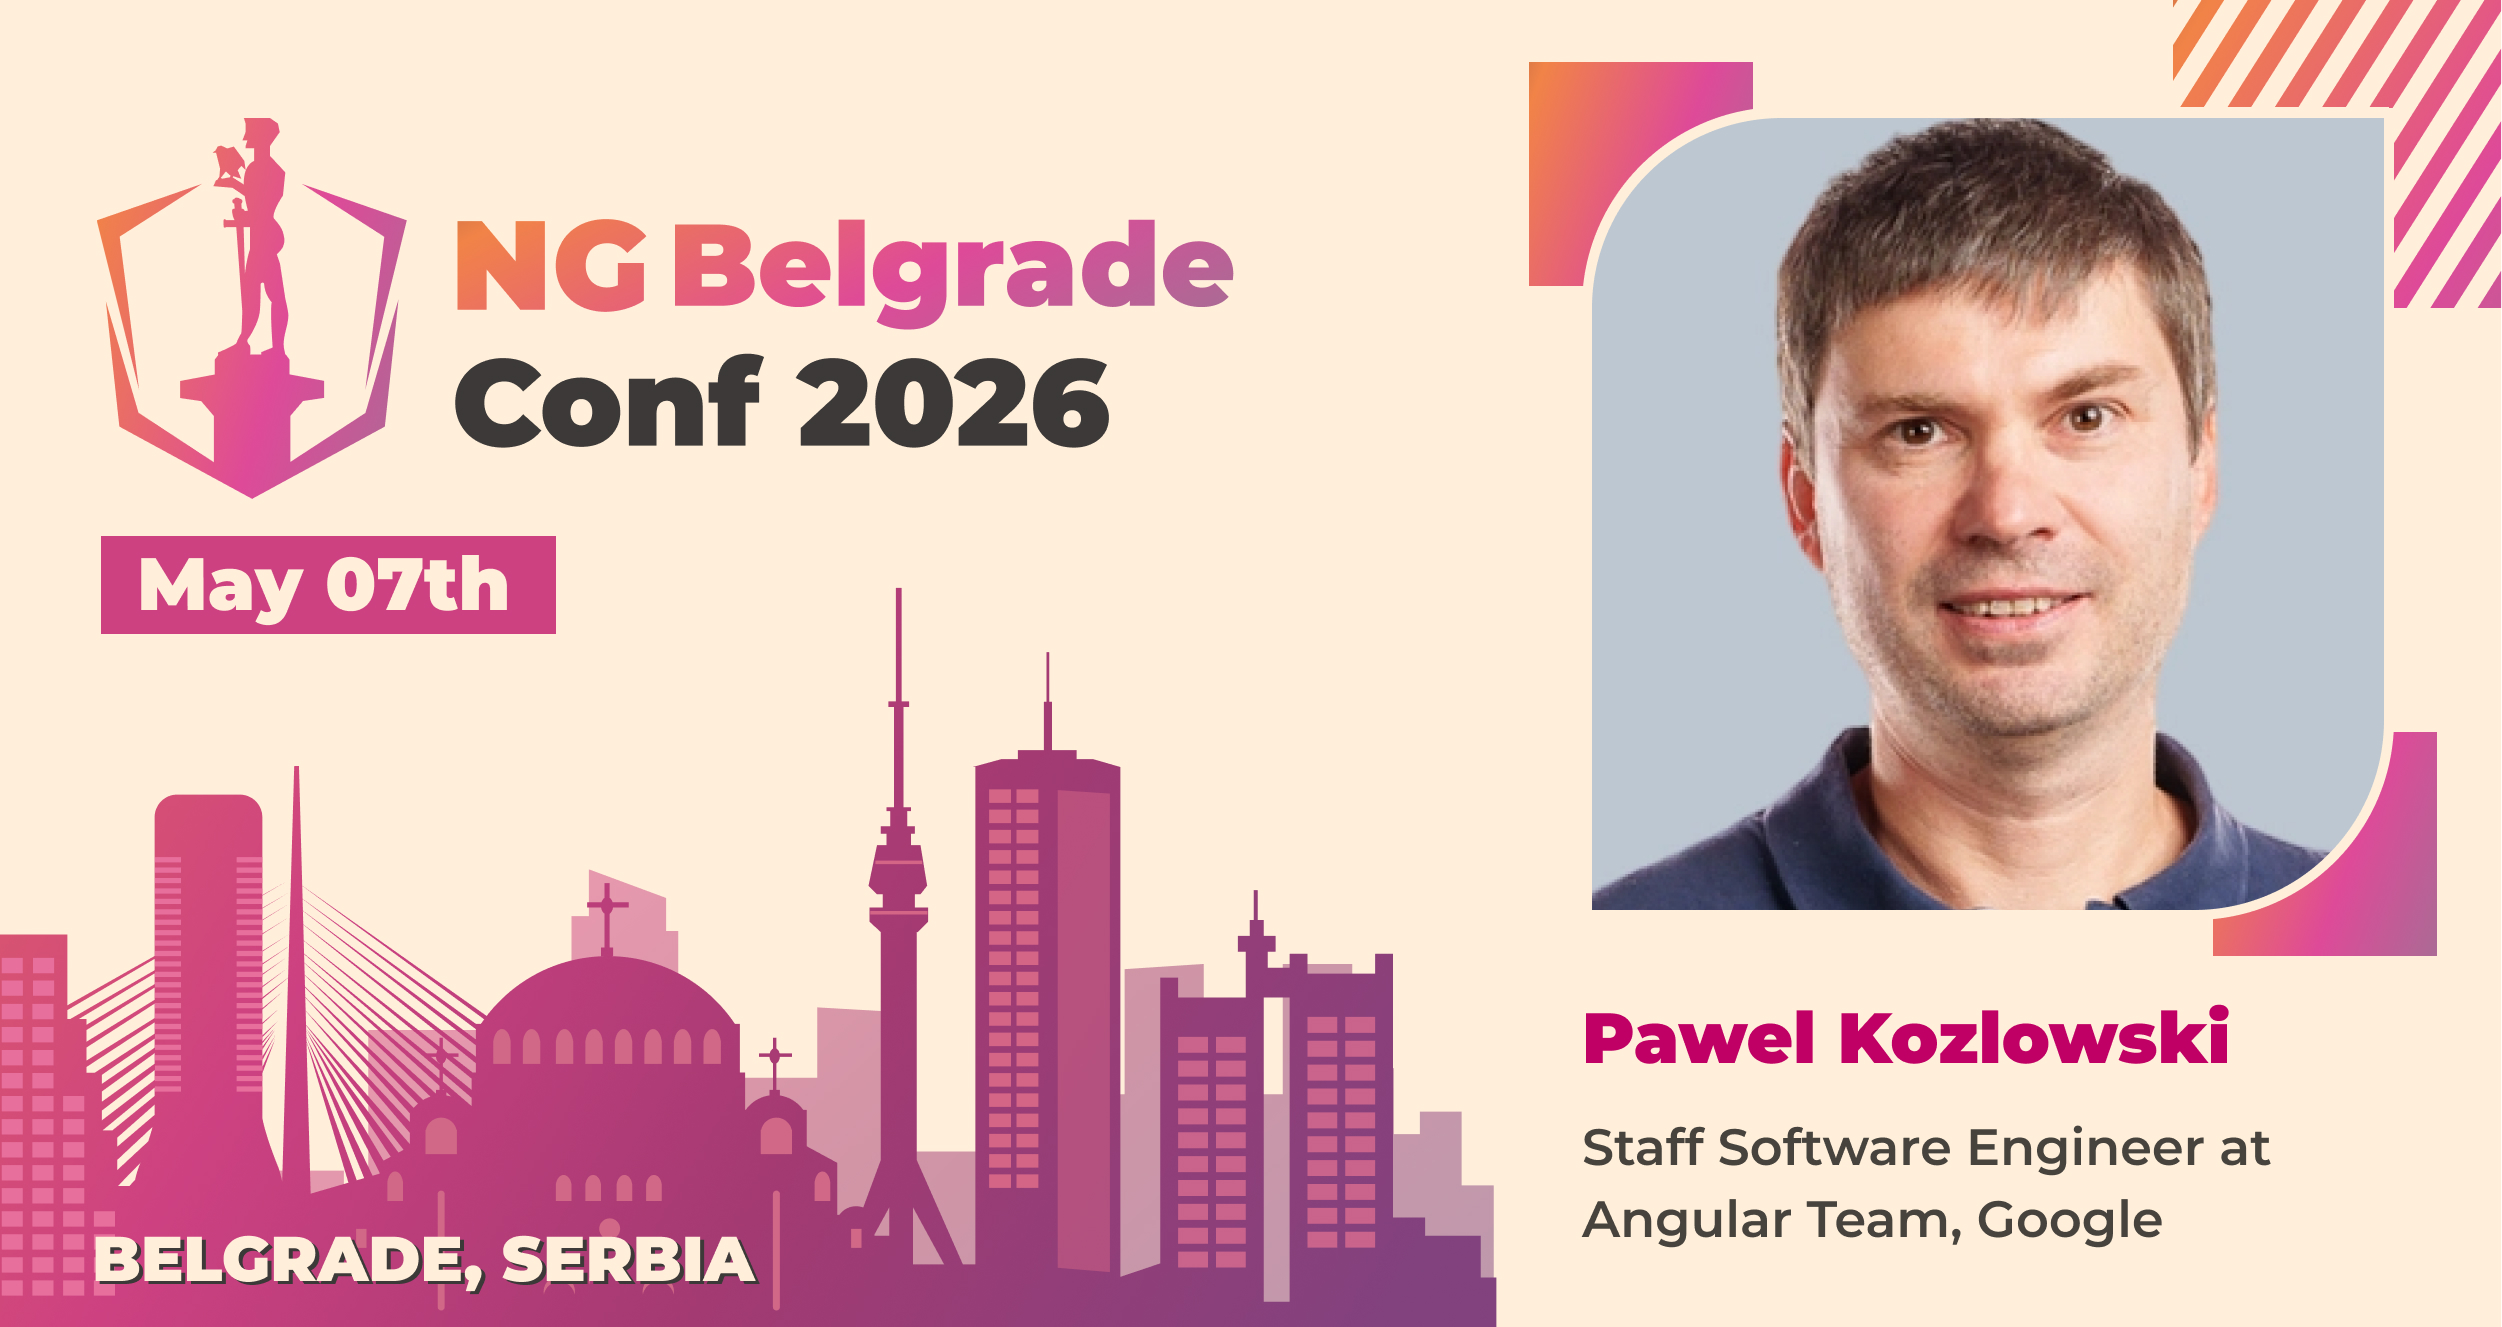
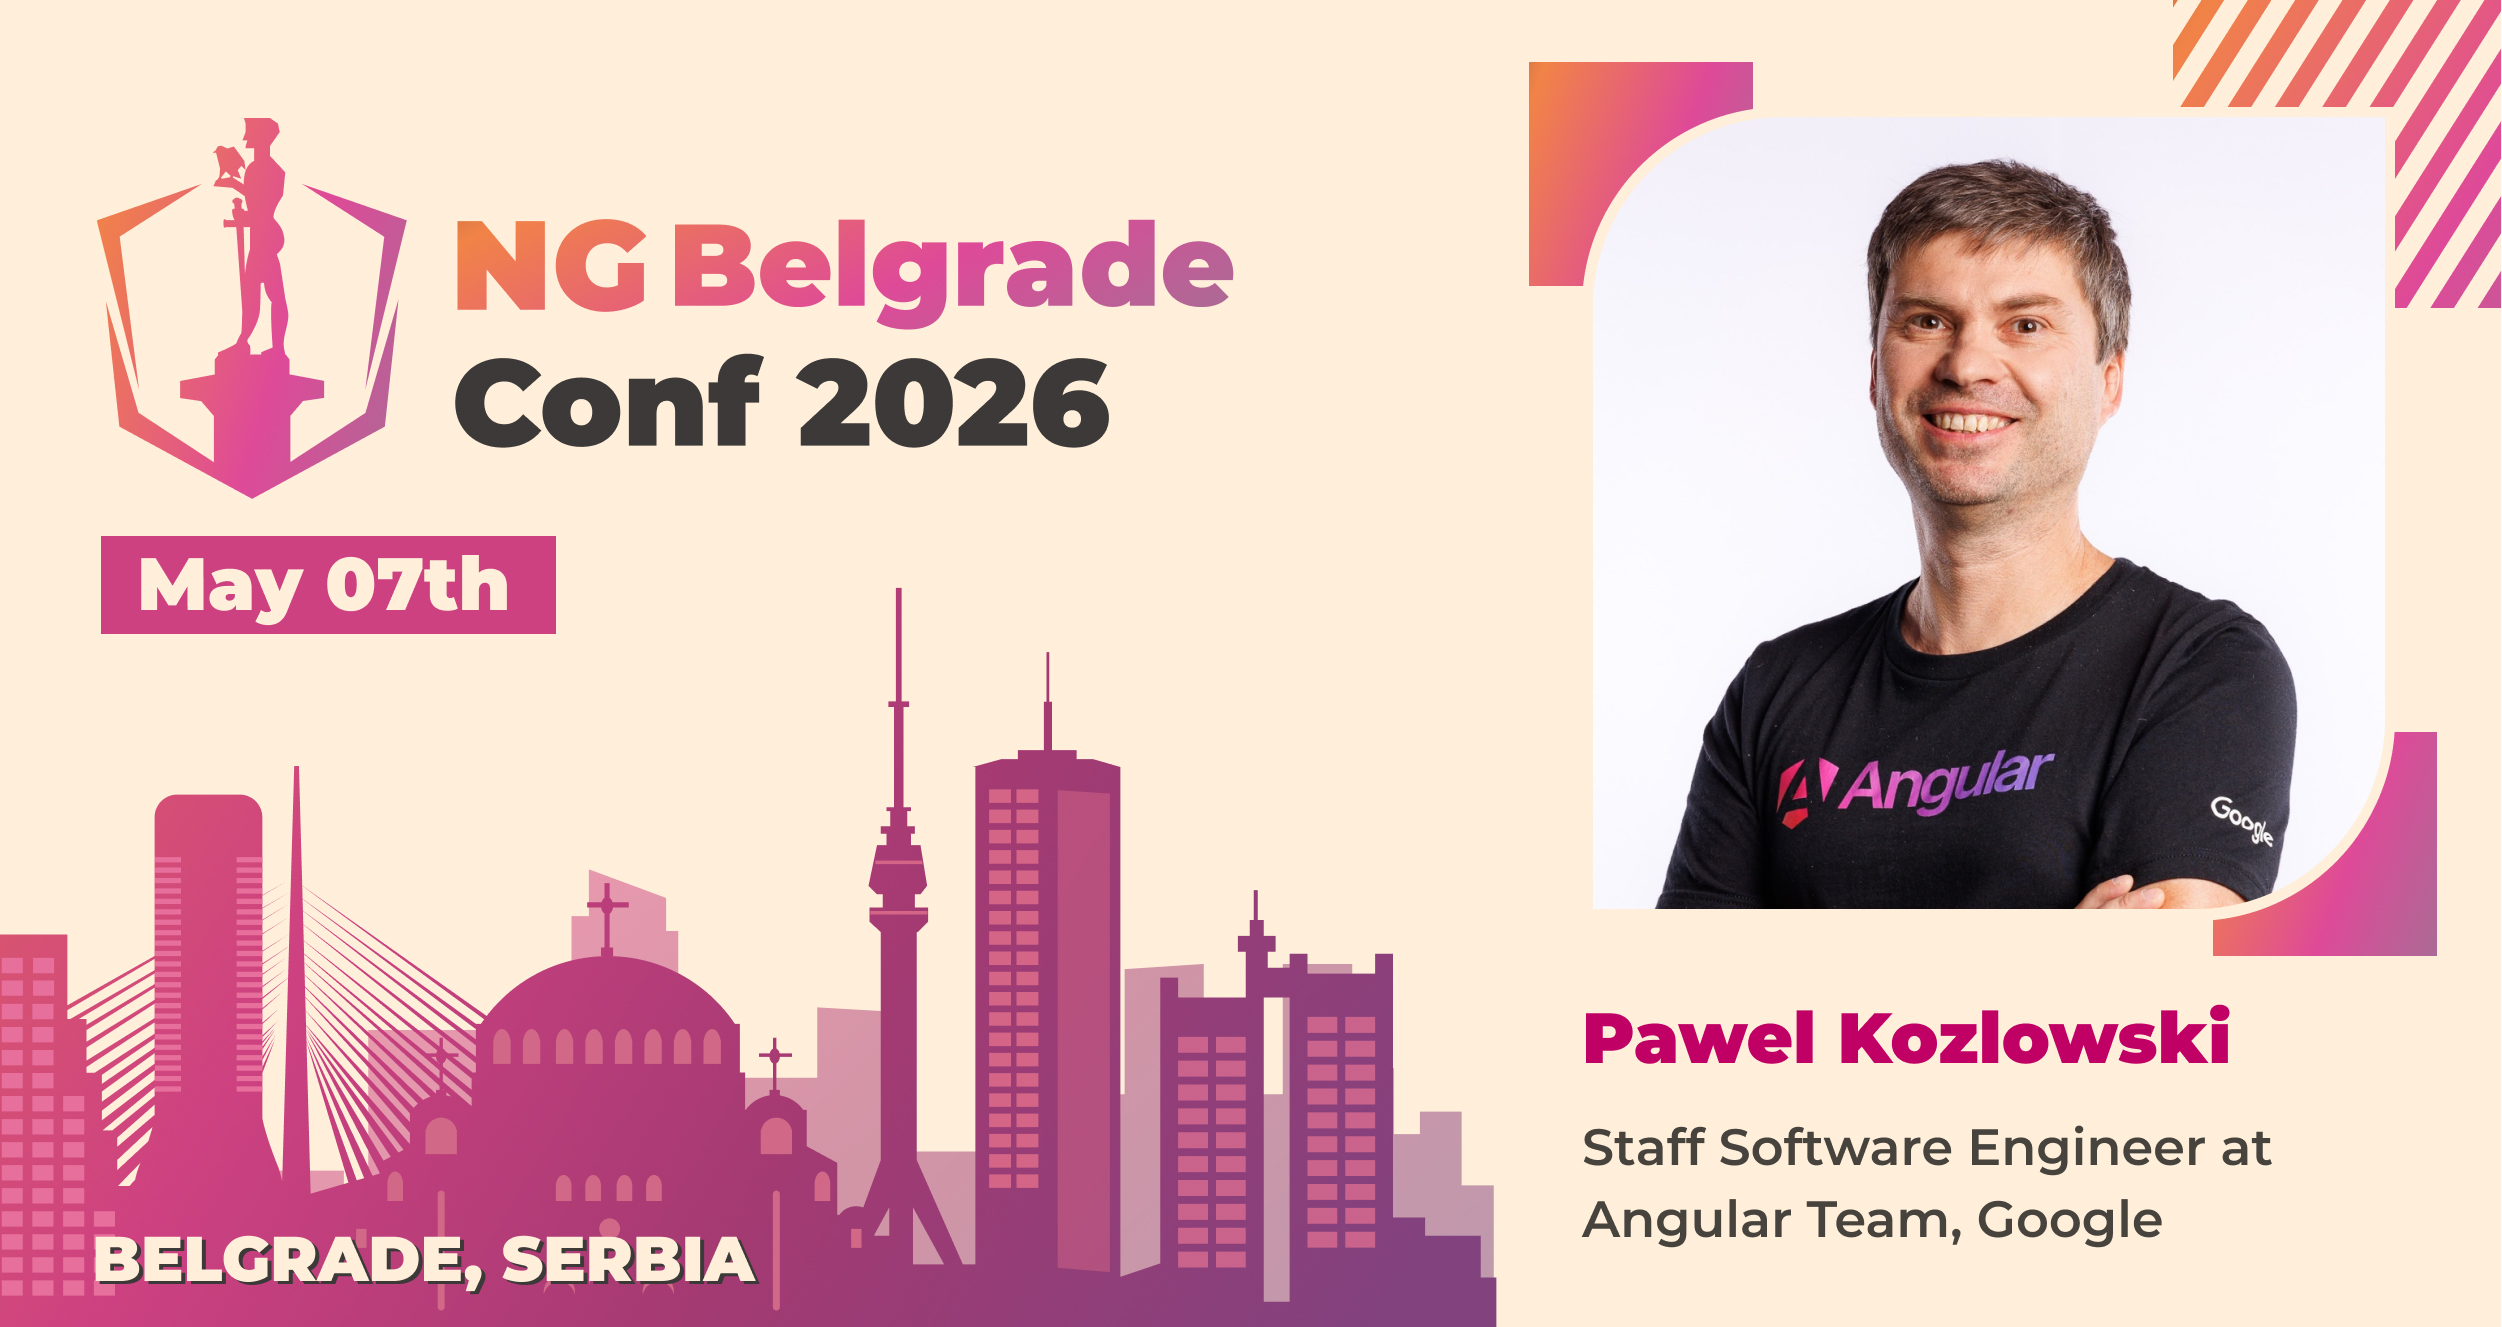
update pawel

Changed region(s): [[0.6235, 0.0618, 0.9664, 0.7106], [0.8106, 0.8651, 0.8417, 0.896]]

diff --git a/src/app/resources/speakers.resource.ts b/src/app/resources/speakers.resource.ts
@@ -56,9 +56,10 @@ const speakerMap: Record<string, Speaker> = {
     id: 'pawel-kozlowski',
     name: 'Pawel Kozlowski',
     headline: 'Staff Software Engineer at<br/>Angular Team, Google',
-    bio: 'Pawel is a Staff Software Engineer on the Angular team at Google. He works on the core of the framework: the part that takes your Angular components and updates DOM in a browser. If you want to have a loooong conversation with Pawel just mention reactivity, change detection, content projection or any other JS-framework related topic! When not coding Pawel enjoys hiking, mountain biking and all outdoor activities.',
-    talkTitle: 'Opening Keynote: The State of Angular',
-    talkDescription: '',
+    bio: 'Pawel is a veteran of the web development community and a long-time contributor to the Angular ecosystem. Known for his deep dives into framework architecture, he has spent years shaping how we build modern, scalable applications. Currently, Pawel is focused on the paradigm shift brought about by AI, pioneering research into LLM-first API design and the transition from static components to intent-based interfaces. When he isn’t re-architecting the web, he’s likely in the mountains hiking or biking. And if you’re looking for a "secret" project, ask him about his recent obsession with traditional French stone masonry (pierre sèche)—because whether it’s code or limestone, Pawel believes in building things that are meant to last.',
+    talkTitle: 'From Components to Intents: The Future of Web Interfaces',
+    talkDescription:
+      'For decades, our job as web developers has been to build "maps"-pre-defined paths, static menus, and rigid components that users must learn to navigate. But the rise of LLMs is fundamentally shifting the user\'s expectation from "finding a feature" to "executing an intent."<br/><br/>In this keynote, we will explore the transition toward a world where user interfaces are no longer hard-coded, but are instead fluid, on-demand, and constructed in real-time to match a user’s specific goal. We will discuss why the next generation of applications won\'t just "have AI features," but will be built on an entirely different architectural foundation. Crucially, we’ll look at how we must evolve our API and DSL designs today to ensure they are "LLM-first," acting as the bridge between raw model power and a seamless user experience. It\'s time to stop building static maps and start architecting for the era of intent.',
     photoUrl: '/people/pawel-kozlowski.jpg',
     photoBackground: 'light',
     flagUrl: '/flags/france.png',
